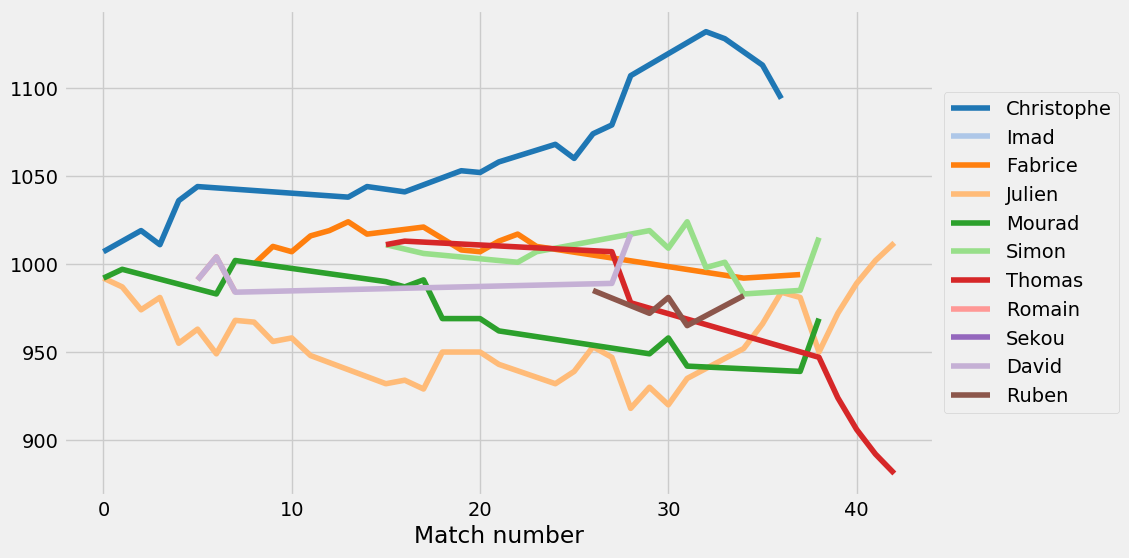
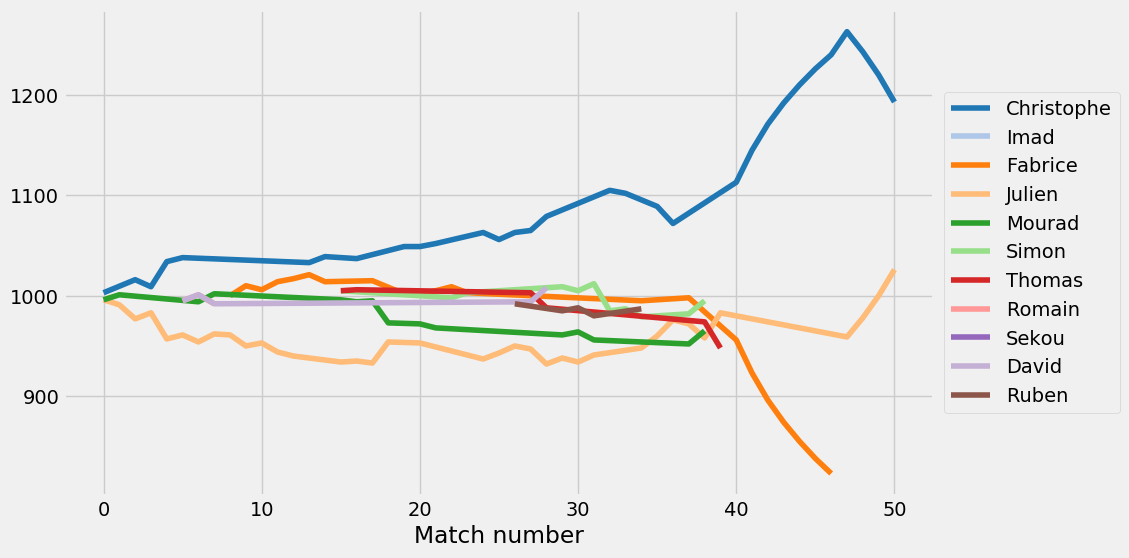
Refactoring

diff --git a/server.py b/server.py
@@ -158,31 +158,28 @@ class myHandler(BaseHTTPRequestHandler):
                     elo = int(elo_values[0]) if elo_values.size == 1 else 1000
                     elos.append(elo)
 
-                expected_scores = []
                 updated_elos = []
-
+                actual_score = max(scores) / (max(scores) + min(scores))
                 if len(players) == 2:
-                    expected_scores.append(1 / (1 + 10**((elos[1] - elos[0])/500)))
-                    expected_scores.append(1 / (1 + 10**((elos[0] - elos[1])/500)))
+                    expected_score = 1 / (1 + 10**((elos[1] - elos[0])/500))
                     if scores[0] > scores[1]:
-                        updated_elos.append(elos[0] + 100 * ((max(scores) / (max(scores) + min(scores))) - expected_scores[0]))
-                        updated_elos.append(elos[1] + 100 * (1 - (max(scores) / (max(scores) + min(scores))) - expected_scores[1])) 
+                        updated_elos.append(elos[0] + 100 * (actual_score - expected_score))
+                        updated_elos.append(elos[1] + 100 * (expected_score - actual_score)) 
                     else:
-                        updated_elos.append(elos[0] + 100 * (1 - (max(scores) / (max(scores) + min(scores))) - expected_scores[0]))
-                        updated_elos.append(elos[1] + 100 * ((max(scores) / (max(scores) + min(scores))) - expected_scores[1]))
+                        updated_elos.append(elos[0] + 100 * (expected_score - actual_score))
+                        updated_elos.append(elos[1] + 100 * (actual_score - expected_score))
                 else:
-                    expected_scores.append(1 / (1 + 10**(((((elos[2] + elos[3]) / 2) - ((elos[0] + elos[1])) / 2)) / 500)))
-                    expected_scores.append(1 / (1 + 10**(((((elos[0] + elos[1]) / 2) - ((elos[2] + elos[3])) / 2)) / 500)))
+                    expected_score = 1 / (1 + 10**(((((elos[2] + elos[3]) / 2) - ((elos[0] + elos[1])) / 2)) / 500))
                     if scores[0] > scores[1]:
-                        updated_elos.append(elos[0] + 100 * ((max(scores) / (max(scores) + min(scores))) - expected_scores[0]))
-                        updated_elos.append(elos[1] + 100 * ((max(scores) / (max(scores) + min(scores))) - expected_scores[0]))
-                        updated_elos.append(elos[2] + 100 * (1 - (max(scores) / (max(scores) + min(scores))) - expected_scores[1])) 
-                        updated_elos.append(elos[3] + 100 * (1 - (max(scores) / (max(scores) + min(scores))) - expected_scores[1])) 
+                        updated_elos.append(elos[0] + 50 * (actual_score - expected_score))
+                        updated_elos.append(elos[1] + 50 * (actual_score - expected_score))
+                        updated_elos.append(elos[2] + 50 * (expected_score - actual_score)) 
+                        updated_elos.append(elos[3] + 50 * (expected_score - actual_score)) 
                     else:
-                        updated_elos.append(elos[0] + 100 * (1 - (max(scores) / (max(scores) + min(scores))) - expected_scores[0]))
-                        updated_elos.append(elos[1] + 100 * (1 - (max(scores) / (max(scores) + min(scores))) - expected_scores[0]))
-                        updated_elos.append(elos[2] + 100 * ((max(scores) / (max(scores) + min(scores))) - expected_scores[1]))
-                        updated_elos.append(elos[3] + 100 * ((max(scores) / (max(scores) + min(scores))) - expected_scores[1]))
+                        updated_elos.append(elos[0] + 50 * (expected_score - actual_score))
+                        updated_elos.append(elos[1] + 50 * (expected_score - actual_score))
+                        updated_elos.append(elos[2] + 50 * (actual_score - expected_score))
+                        updated_elos.append(elos[3] + 50 * (actual_score - expected_score))
                     
                 for player,updated_elo in zip(players,updated_elos): 
                     new_elo_entry = {
